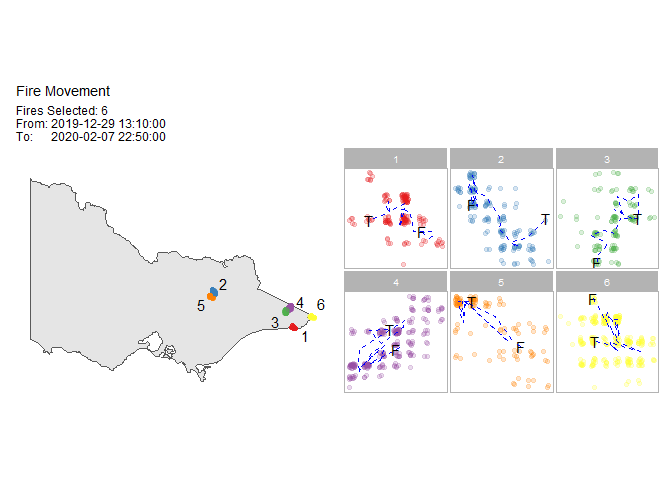
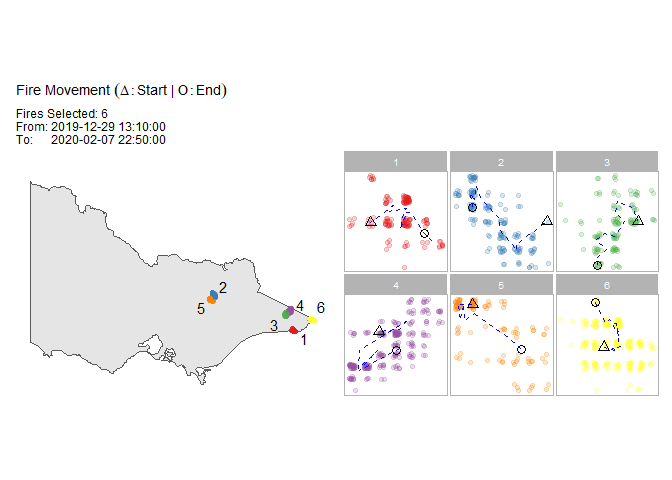
modify plot_timeline()

diff --git a/README.md b/README.md
@@ -108,8 +108,8 @@ result <- hotspot_cluster(hotspots_fin,
 #> i average hotspots : 176.7
 #> i average duration : 131.9 hours
 #> 
-#> -- Time taken = 0 mins 4 secs for 1070 hotspots
-#> i 0.004 secs per hotspot
+#> -- Time taken = 0 mins 5 secs for 1070 hotspots
+#> i 0.005 secs per hotspot
 #> 
 #> --------------------------------------------------------------------------------
 ```
@@ -188,7 +188,7 @@ plot(result, cluster = c(1,2,3,4))
 plot(result,
      type = "mov",
      cluster = 1:6,
-     step = 3,
+     step = 6,
      hotspot = TRUE,
      bg = plot_vic_map())
 ```
@@ -196,7 +196,10 @@ plot(result,
 <img src="man/figures/README-unnamed-chunk-11-1.png" width="70%" height="70%" />
 
 ``` r
-plot_timeline(result, dateLabel = "%b %d", mainBreak = "1 week")
+plot(result, "timeline", 
+     dateLabel = "%b %d", 
+     mainBreak = "1 week", 
+     minorBreak = "1 day")
 ```
 
 <img src="man/figures/README-unnamed-chunk-12-1.png" width="70%" height="70%" />
